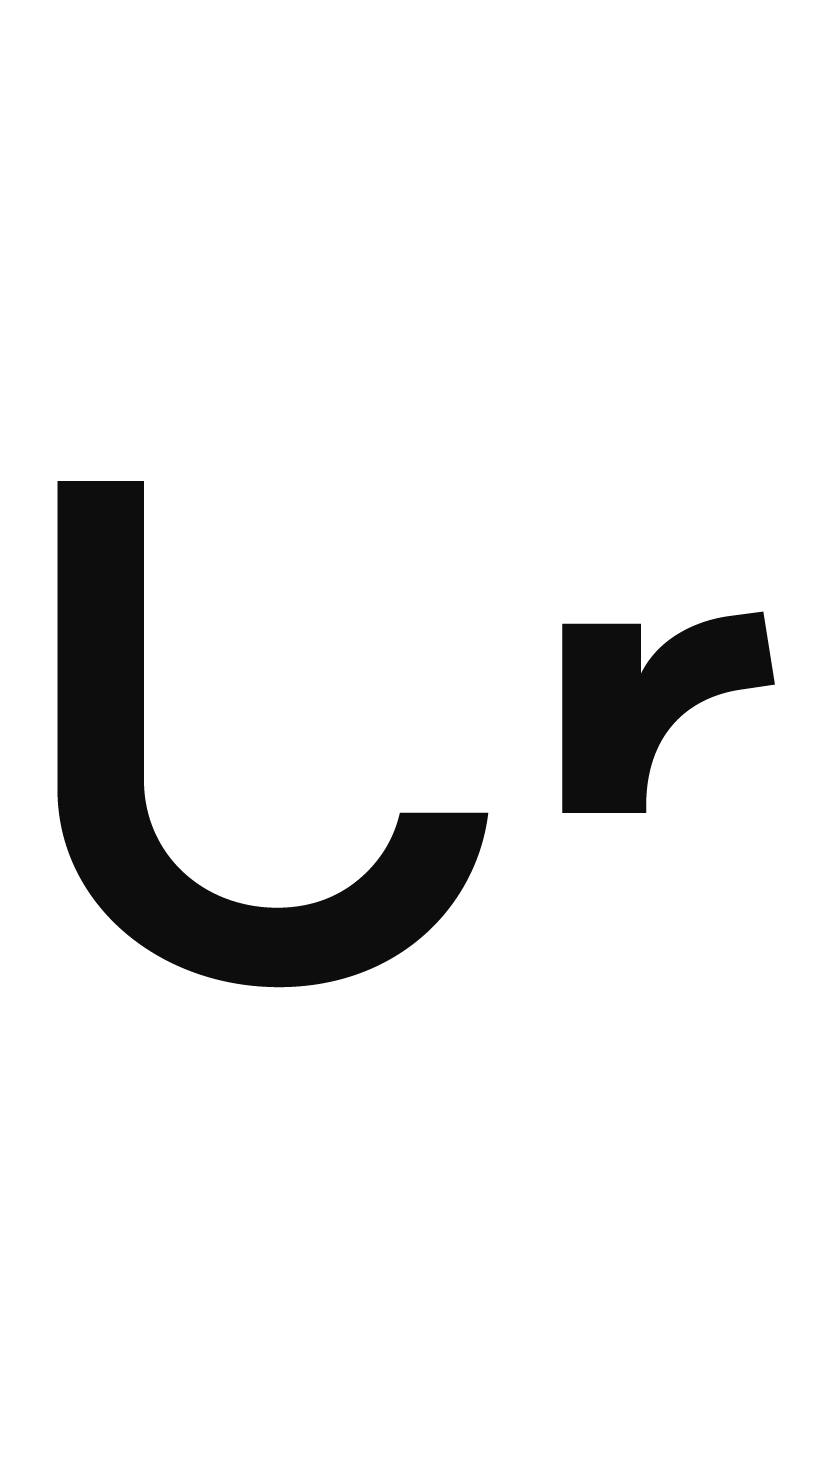
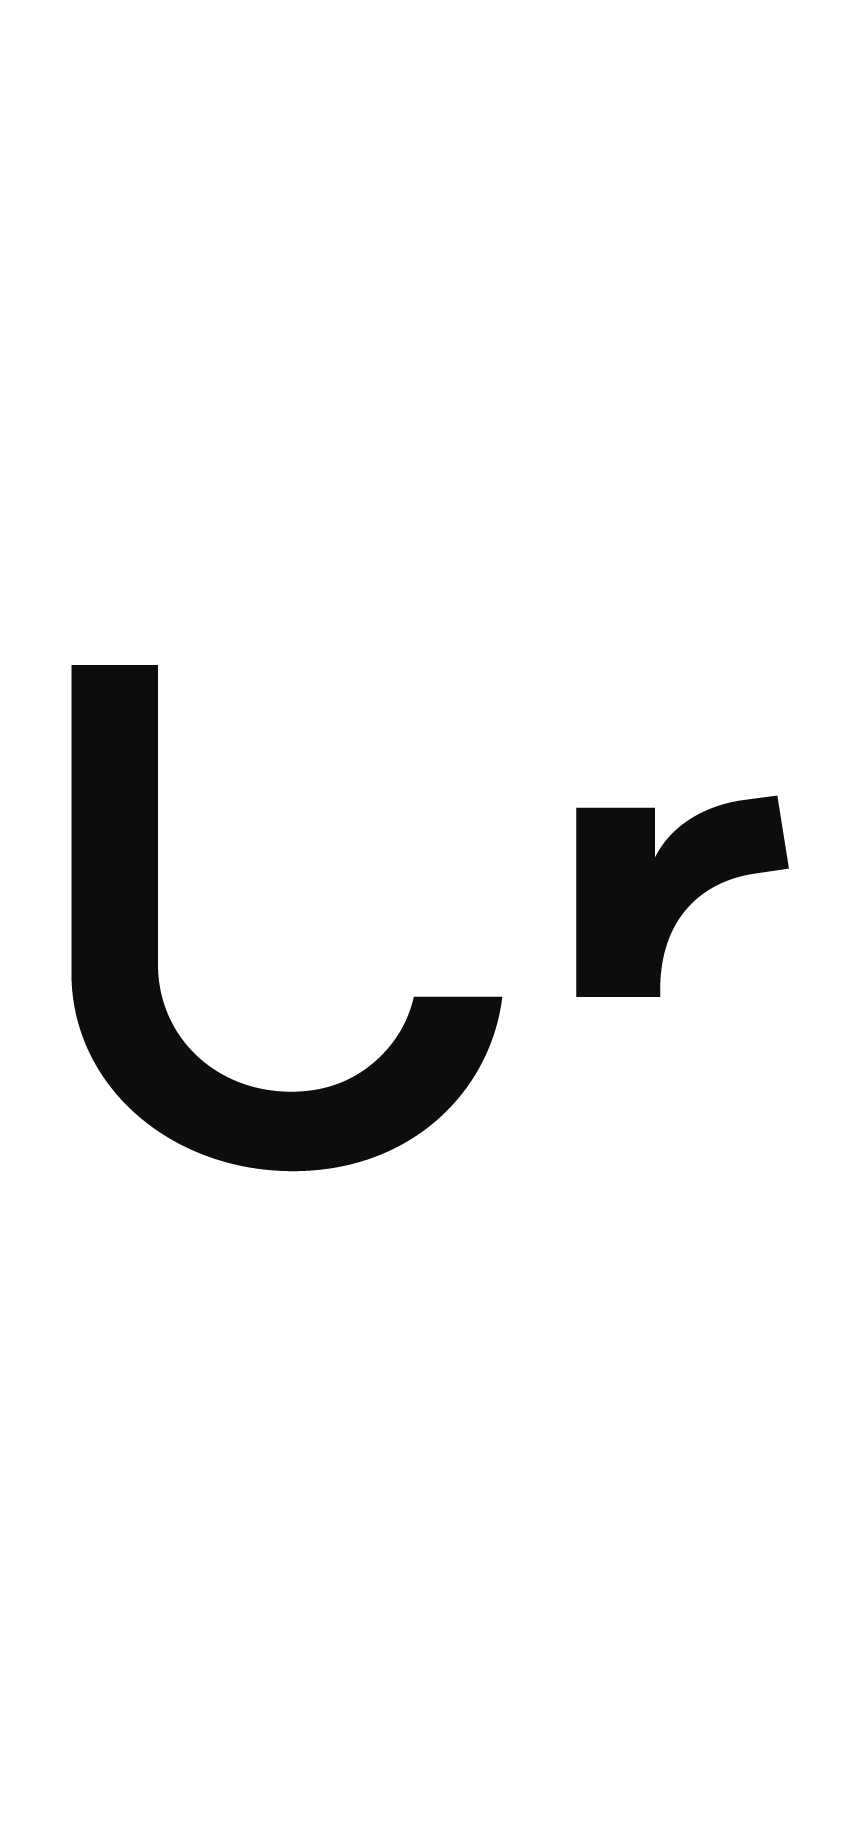
Urba gallery: a little more space after the wordmark, Ur mark 20% smaller
Claude-Session: https://claude.ai/code/session_012xVSFeyKoQyZUFPAaCyKB9

Changed region(s): [[0.0625, 0.3061, 0.5938, 0.6735], [0.6562, 0.398, 0.9375, 0.551], [0.7812, 0.4898, 0.8125, 0.5204]]

diff --git a/public/projects.js b/public/projects.js
@@ -384,8 +384,8 @@ window.PROJECTS = {
     notes: ["", "Urba’s mark reflects a city that is always evolving. Its shifting letterforms trace a process of forming ideas, building, and adapting to changing needs.", "While sketching variations of the name, I found that the relationship between the drawings mattered more than any single version. That discovery became the basis of the identity: a form that remains recognizable while allowing for change."],   // the Ur mark's note ("The mark expresses a principle...") taken off at his ask
     grid: [
       // 20% smaller than before (his ask, 2026-11-09)
-      // on the gallery sheet: the wordmark with its side margins trimmed (sheetSrc), so the gap to the posters is small;
-      // the Ur mark with white round it, so it reads at the wordmark's size (his ask, 2026-11-09)
+      // on the gallery sheet: the wordmark with its side margins trimmed (sheetSrc), so the gap to the posters is small (a little more on the right, his second note);
+      // the Ur mark with white round it, so it reads at the wordmark's size, then 20% smaller (his asks, 2026-11-09)
       {src: "img/urba-branding/wordmark-tagline-2.png", sheetSrc: "img/urba-branding/sheet-wordmark.png", drawing: true, scale: .8, caption: "Wordmark: Creamos espacios, construimos comunidad"},
       {src: "img/urba-branding/posters.png", drawing: true, scale: .5, caption: "Isotype in the three colours"},
       {src: "img/urba-branding/isotype-steps.png", drawing: true, scale: .5, caption: "Isotype, step by step"},
